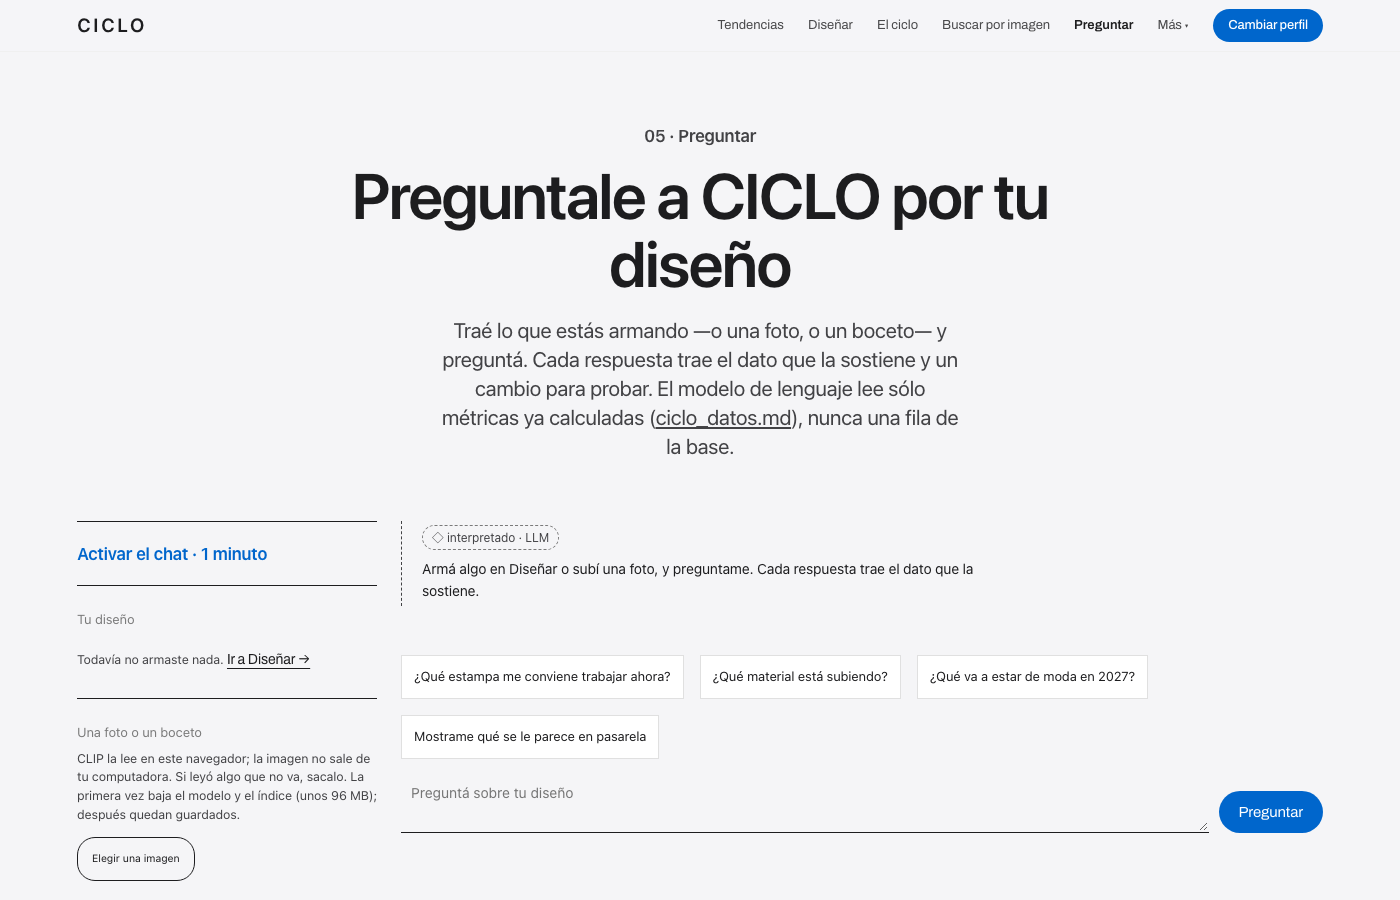
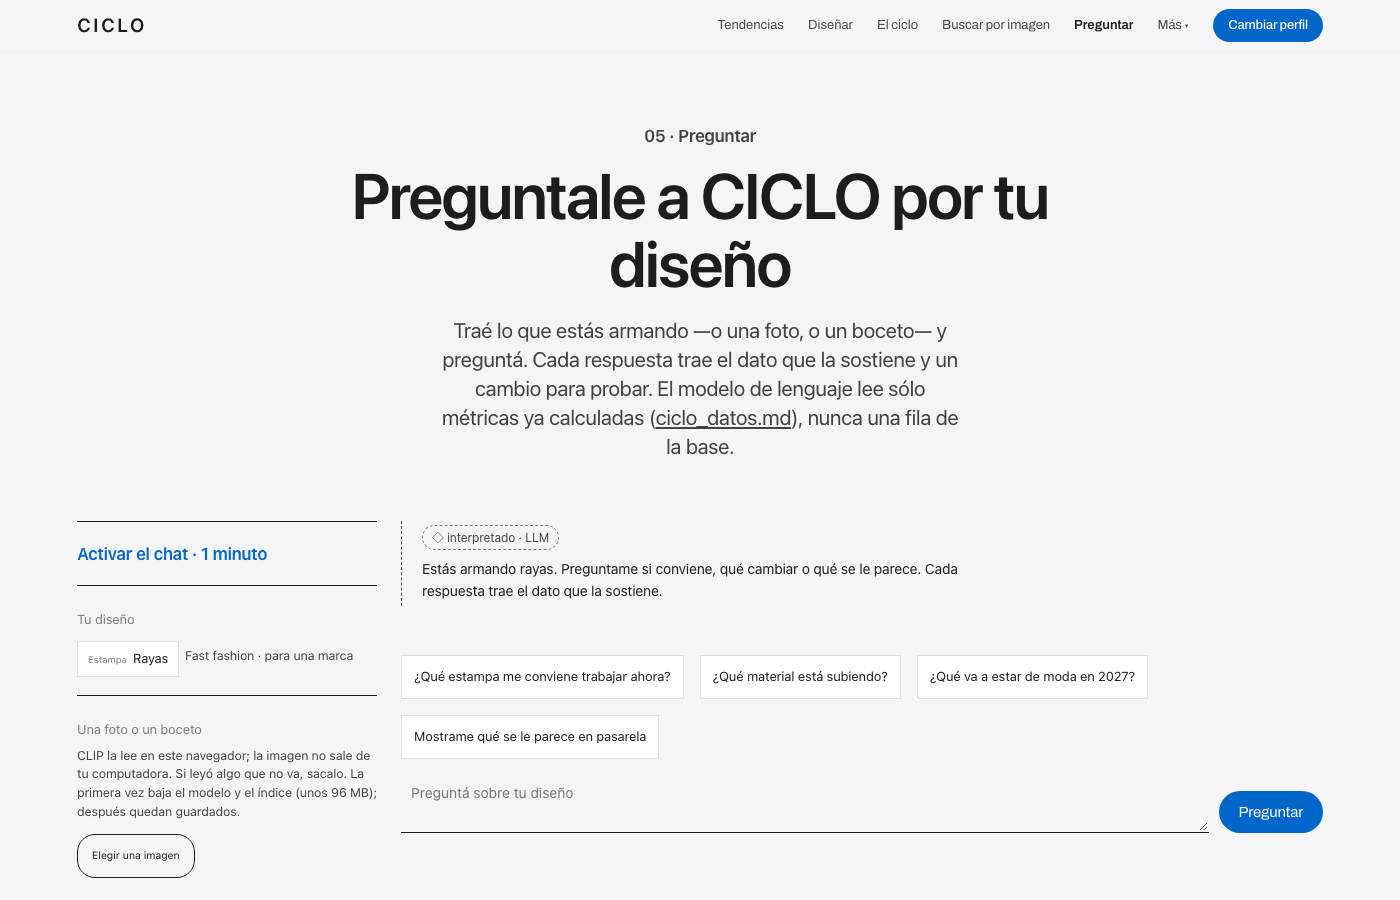
Tendencias dice el perfil, y Preguntar ve el atributo que llega desde una ficha

Changed region(s): [[0.0614, 0.8089, 0.2764, 0.9644], [0.3071, 0.6222, 0.7064, 0.6844], [0.0614, 0.7156, 0.2457, 0.7467]]

diff --git a/app/index.html b/app/index.html
@@ -934,6 +934,7 @@ body{background:var(--paper)!important;color:var(--ink);font:17px/1.47 var(--sf)
 .app .gate{text-align:center;max-width:920px}
 .app .gate .sub{margin-left:auto!important;margin-right:auto!important;font-size:21px!important;color:var(--ink-2)!important}
 .app .ggrid{text-align:left}
+.app .perfilrad:not(#z){border-radius:999px!important}@media (max-width:560px){.app .perfilrad:not(#z){border-radius:18px!important}}.app .perfilrad{display:inline-flex;flex-wrap:wrap;justify-content:center;align-items:center;gap:6px 14px;margin:22px auto 0;padding:10px 18px;background:var(--card);border-radius:999px;font-size:15px;color:var(--ink-2)}.app .perfilrad b{color:var(--ink);font-weight:600}.app .perfilrad button{font:inherit;color:var(--azul);background:none;border:0;padding:0;cursor:pointer}
 .app .ggrid.g4 .gt{font-size:26px!important}
 .app .gfirma{text-align:left;margin-top:56px}
 .app .gnav{justify-content:center}
@@ -1017,6 +1018,7 @@ body{background:var(--paper)!important;color:var(--ink);font:17px/1.47 var(--sf)
           <span class="lbl">01 · Tendencias</span>
           <h1>Qué se está moviendo</h1>
           <p class="sub">Lo que está ganando y perdiendo terreno afuera, y en qué etapa está cada atributo. Tocá cualquiera para ver su recorrido y diseñar con él.</p>
+          <p class="perfilrad" id="perfilrad"></p>
         </div>
       </div>
       <hr class="rule">
@@ -2755,10 +2757,12 @@ function asGuardar(k,v){try{localStorage.setItem(k,v);}catch(e){}}
 function asSecciones(doc){const S={intro:[]};let a='intro';for(const l of doc.split('\n')){if(l.startsWith('## ')){a=l.slice(3).trim();S[a]=[l];}else(S[a]||(S[a]=[])).push(l);}return S;}
 /* lo que está armando en Diseñar, como chips y como ids de DATOS */
 function asDiseno(){
-  const pr=dzPrenda();if(!pr)return {chips:[],ids:[],txt:''};
-  const P=dzPasos().filter(p=>p!=='fin'&&dz[p]),chips=P.map(p=>({paso:p,n:DZ_NOMBRE[p],v:dzValor(p)}));
+  // desde una ficha llega sólo el atributo (una estampa, un material, un color), sin prenda: también es un diseño
+  const val=p=>{try{return dzValor(p);}catch(e){return null;}};
+  const P=(dzPrenda()?dzPasos():['material','color','estampa','detalle']).filter(p=>p!=='fin'&&dz[p]&&val(p)),chips=P.map(p=>({paso:p,n:DZ_NOMBRE[p],v:val(p)}));
   const ids=[];if(dz.tipo)ids.push(`tipo_${dz.prenda}_${dz.tipo}`);['corte','tiro','material','estampa','detalle'].forEach(k=>{if(dz[k])ids.push(`${k}_${dz[k]}`);});
-  return {chips,ids,txt:dzNombre?chips.map(c=>`${c.n.toLowerCase()}: ${c.v}`).join(' · '):''};
+  return {chips,ids,txt:chips.map(c=>`${c.n.toLowerCase()}: ${c.v}`).join(' · ')+(dzPrenda()?'':' (todavía sin prenda)'),
+    nombre:dzPrenda()?dzNombre():chips.map(c=>c.v.toLowerCase()).join(', ')};
 }
 /* los pasos y valores que una acción puede tocar, para el diseño de ahora */
 function asOpciones(){
@@ -2847,7 +2851,7 @@ function asPintar(){
   $('#asclip').innerHTML=as.clip.map((c,i)=>`<button type="button" class="aschip leido" data-x="${i}" title="Sacar"><span>leí</span>${escH(c.n)} <span class="aspp">${c.p.toFixed(2).replace('.',',')}</span> ×</button>`).join('');
   $$('#asclip [data-x]').forEach(b=>b.onclick=()=>{as.clip.splice(+b.dataset.x,1);asPintar();});
   const ch=$('#aschat');ch.innerHTML='';
-  if(!as.hist.length)ch.innerHTML=`<div class="asa"><div class="h"><span class="tag ia2">interpretado · LLM</span></div><p>${D.chips.length?`Estás armando ${escH(dzNombre())}. Preguntame si conviene, qué cambiar o qué se le parece.`:'Armá algo en Diseñar o subí una foto, y preguntame.'} Cada respuesta trae el dato que la sostiene.</p></div>`;
+  if(!as.hist.length)ch.innerHTML=`<div class="asa"><div class="h"><span class="tag ia2">interpretado · LLM</span></div><p>${D.chips.length?`Estás armando ${escH(D.nombre)}. Preguntame si conviene, qué cambiar o qué se le parece.`:'Armá algo en Diseñar o subí una foto, y preguntame.'} Cada respuesta trae el dato que la sostiene.</p></div>`;
   as.hist.forEach(m=>{
     const d=document.createElement('div');
     if(m.role==='user'){d.className='asq';d.textContent=m.content;ch.appendChild(d);return;}
@@ -3319,6 +3323,7 @@ function mostrar(v,keepNav){
   if(v==='disenar')pintarDisenar();else if($('#dzbarra'))$('#dzbarra').hidden=true;
   if(v==='asistente')asAbrir();
   if(v==='racional')pintarMetodoGate();
+  if(v==='radar')pintarPerfilRadar();
   window.scrollTo({top:0,behavior:'instant'});
   vista=v;escribirLink(true);
 }
@@ -3381,6 +3386,14 @@ function ponerCliente(c){
 function gateElegir(){
   publico=gateSel.publico||'todos';vinculo=gateSel.vinculo||'marca';ponerCliente(gateSel.cliente);guardarPerfil();
   if(gateDestino==='detalle'&&detSel)abrirDetalle(detSel);else mostrar(gateDestino);
+}
+/* Tendencias dice con qué perfil se está leyendo, y deja cambiarlo */
+function pintarPerfilRadar(){
+  const e=$('#perfilrad');if(!e)return;
+  const pub={mujer:'Mujer',hombre:'Hombre',todos:'Sin género'}[publico]||'Sin género';
+  const cat=(GATE[vinculo]||GATE.marca).c[cliente]?.[0]||(PERFIL[cliente]||PERFIL.premium).n;
+  e.innerHTML=`<span>Tu perfil: <b>${pub} · ${vinculo==='propia'?'Por tu cuenta':'Para una marca'} · ${cat}</b></span><button type="button" id="perfilradc">Cambiar</button>`;
+  $('#perfilradc').onclick=()=>abrirGate('radar');
 }
 /* Método · la entrada: lo que el gate ya no explica en cada tarjeta */
 function pintarMetodoGate(){

diff --git a/decisiones.md b/decisiones.md
@@ -1486,3 +1486,8 @@ usaba el gate.
 dónde cae, Tendencias, la ficha, «Diseñar con…», Diseñar con el atributo fijo y Preguntar; el gate y Diseñar también a
 393 px. Las saca `codigo/capturar_recorrido.js` con clicks de verdad, sin perfil guardado. Arriba de todo, la app, la
 presentación y el QR (criterio 5).
+
+**Después, dos arreglos que salieron del recorrido.** Tendencias dice debajo del título con qué perfil está leyendo
+(«Tu perfil: Mujer · Para una marca · Fast fashion · Cambiar»): antes el perfil recién se veía en la ficha. Y Preguntar
+leía como vacío un diseño que llega desde una ficha («Diseñar con esta estampa · Rayas»), porque todavía no tiene
+prenda; ahora toma el atributo fijo como diseño y le dice al modelo que falta la prenda.
